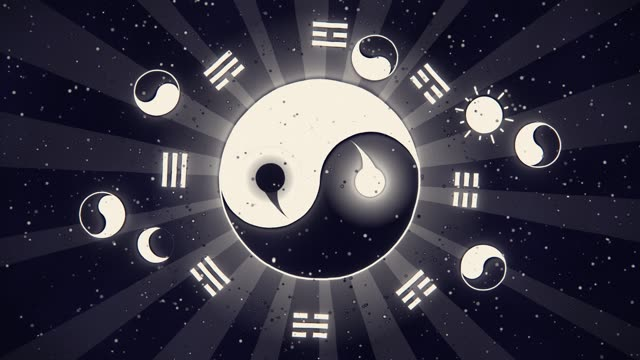
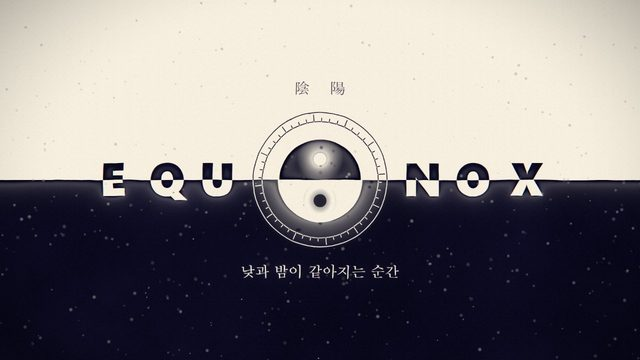
이쿼녹스: 회전 1.5배 + 종막 리워크
- 회전 속도 배율 SPIN=1.5, 마지막 마디(17.02~19.02)는 수렴하며 추가 가속·확대
- 해와 달이 나선으로 빨려들어 태극의 두 눈이 됨
- 19.02: 태극이 수평으로 멈추고 S곡선이 수평선으로 펴짐 (위 낮 / 아래 밤)
- EQU ◐ NOX 타이틀이 수평선에 걸쳐 반반으로 찍힘, 천문 눈금 고리, 부제
- 숨겨진 0x0 창에서 NaN 그라디언트 오류 방지 (W/H 기본값)

diff --git a/public/equinox_preview.html b/public/equinox_preview.html
@@ -57,8 +57,9 @@ const eBack = (t) => { const c = 1.70158; return 1 + (c + 1) * Math.pow(t - 1, 3
 const pulse = (t, t0, rise, fall) => (t < t0 ? 0 : t < t0 + rise ? (t - t0) / rise : Math.max(0, 1 - (t - t0 - rise) / fall));
 function rng(seed) { return () => { seed |= 0; seed = seed + 0x6D2B79F5 | 0; let x = Math.imul(seed ^ seed >>> 15, 1 | seed); x = x + Math.imul(x ^ x >>> 7, 61 | x) ^ x; return ((x ^ x >>> 14) >>> 0) / 4294967296; }; }
 
+const SPIN = 1.5;                                    // 회전 속도 배율
 const VOLUME = .7;                                   // 음악 음량 (0~1)
-const BEAT = 2 / 3, T0 = 1.02, BUILD = 9.02, DROP = 11.02, SAT = 15.02, TITLE = 19.02, FADE = 20.0, END = 21.0;
+const BEAT = 2 / 3, T0 = 1.02, BUILD = 9.02, DROP = 11.02, SAT = 15.02, CONV = 17.02, TITLE = 19.02, FADE = 20.5, END = 21.2;
 const D = window.EQ_DATA || { fps: 30, low: [], high: [], onsets: [] };
 const CAPS = [
   { a: 1.5, b: 4.7, s: "陰 — 어둠은 빛을 품고" },
@@ -71,18 +72,19 @@ const $ = (id) => document.getElementById(id);
 const cv = $("cv"), g = cv.getContext("2d"), bgm = $("bgm");
 let W = 0, H = 0, U = 0, DPR = 1, stars = [], parts = [], events = [], rotTab = null, time = 0, running = false, raf = 0, anchor = 0, useAudio = false, opts = {};
 
-function resize() { DPR = Math.min(2, window.devicePixelRatio || 1); W = cv.clientWidth; H = cv.clientHeight; U = Math.min(W, H) / 10; cv.width = W * DPR; cv.height = H * DPR; }
+function resize() { DPR = Math.min(2, window.devicePixelRatio || 1); W = cv.clientWidth || 1280; H = cv.clientHeight || 720;   // 창이 숨겨져 크기가 0이어도 NaN 이 나지 않게 U = Math.min(W, H) / 10; cv.width = W * DPR; cv.height = H * DPR; }
 function band(arr, t) { const i = t * D.fps, i0 = Math.floor(i); if (i0 < 0 || !arr.length) return .5; const a = arr[Math.min(arr.length - 1, i0)], b = arr[Math.min(arr.length - 1, i0 + 1)]; return a + (b - a) * (i - i0); }
 const lowN = (t) => clamp((band(D.low, t) - .35) / .45), highN = (t) => clamp((band(D.high, t) - .25) / .45);
 
 /* 회전: 각속도를 적분해 표로 (1막 느리게 → 빌드에서 소용돌이 → 2막은 박마다 툭툭 밀림) */
-function omega(t) {
+function omega0(t) {
   if (t < T0) return 0;
   if (t < BUILD) { const ph = ((t - T0) / BEAT) % 1, grow = seg(t, T0, BUILD); return .55 + .5 * grow + (1.6 + 1.3 * grow) * Math.exp(-ph * 5); }
   if (t < DROP) return lerp(2.0, 12, eIn(seg(t, BUILD, DROP)));
   if (t < TITLE) { const ph = ((t - DROP) / BEAT) % 1; return 1.0 + 6 * Math.exp(-ph * 6); }
   return .45;
 }
+function omega(t) { return omega0(t) * SPIN * (t >= CONV && t < TITLE ? 1 + 2.5 * eIn(seg(t, CONV, TITLE)) : 1); }
 function buildRot() { const n = Math.ceil(END * 240) + 2; rotTab = new Float32Array(n); let a = PI / 2; for (let i = 0; i < n; i++) { rotTab[i] = a; a += omega(i / 240) / 240; } }
 function rotAt(t) { const i = clamp(t, 0, END) * 240, i0 = Math.floor(i); return lerp(rotTab[i0], rotTab[Math.min(rotTab.length - 1, i0 + 1)], i - i0); }
 function beatPulse(t) { if (t < DROP || t >= TITLE) return 0; return Math.exp(-(((t - DROP) / BEAT) % 1) * 5); }
@@ -91,11 +93,16 @@ function radiusAt(t) {
   if (t < BUILD) return Math.exp(lerp(Math.log(45 * U), Math.log(10 * U), eOut(seg(t, T0, BUILD))));
   if (t < DROP) return Math.exp(lerp(Math.log(10 * U), Math.log(2.7 * U), eIn(seg(t, BUILD, DROP))));
   const toTitle = eInOut(seg(t, TITLE, TITLE + .55));
-  return lerp(2.7 * U * (1 + .1 * beatPulse(t) + .05 * lowN(t)) * (1 + .3 * pulse(t, DROP, .01, .45)), 1.3 * U, toTitle);
+  return lerp(2.7 * U * (1 + .1 * beatPulse(t) + .05 * lowN(t)) * (1 + .3 * pulse(t, DROP, .01, .45)), 1.15 * U, toTitle);
 }
-function centerY(t) { return lerp(0, -1.95 * U, eInOut(seg(t, TITLE, TITLE + .55))); }
+function centerY(t) { return 0; }
+/* 종막: 도는 태극이 수평으로 멈추고(phi → 2π 배수), S자 경계가 곧은 수평선으로 펴진다(amp 1 → 0) */
+function finale(t) { const r0 = rotAt(TITLE) - PI / 2, target = Math.ceil((r0 + 1.2) / TAU) * TAU;
+  return { phi: lerp(r0, target, eOut(seg(t, TITLE, TITLE + .5))), amp: 1 - eInOut(seg(t, TITLE + .1, TITLE + .6)) }; }
 function orbR(t) { return Math.min(lerp(3.3 * U, 2.3 * U, seg(t, 3, BUILD)), radiusAt(t) / 2); }
-function orbPos(t, yang) { const a = rotAt(t), r = orbR(t) * (yang ? 1 : -1); return [Math.sin(a) * r, -Math.cos(a) * r + centerY(t)]; }
+function orbPos(t, yang) {
+  if (t >= TITLE) { const f = finale(t), th = (1 - f.amp) * PI / 2, R = radiusAt(t) / 2, lx = (yang ? 1 : -1) * R * Math.cos(th), ly = (yang ? -1 : 1) * R * Math.sin(th), c = Math.cos(f.phi), sn = Math.sin(f.phi); return [lx * c - ly * sn, lx * sn + ly * c]; }
+  const a = rotAt(t), r = orbR(t) * (yang ? 1 : -1); return [Math.sin(a) * r, -Math.cos(a) * r + centerY(t)]; }
 
 function init() {
   buildRot();
@@ -136,6 +143,13 @@ function taiji(cx, cy, R, rot, whiteAlpha, outline) {
   if (outline) { g.strokeStyle = "#fff"; g.lineWidth = outline; g.beginPath(); g.arc(0, 0, R, 0, TAU); g.stroke(); }
   g.restore();
 }
+function taijiMorph(R, phi, amp, outline) {       // amp=1: 보통 태극(흰 머리 왼쪽·검은 머리 오른쪽), amp=0: 위는 검고 아래는 흰 반원
+  const k = R * 2 / 3 * amp;
+  g.save(); g.rotate(phi); g.fillStyle = "#fff"; g.beginPath(); g.arc(0, 0, R, 0, TAU); g.fill();
+  g.fillStyle = "#000"; g.beginPath(); g.moveTo(-R, 0); g.arc(0, 0, R, PI, 0, false); g.bezierCurveTo(R, k, 0, k, 0, 0); g.bezierCurveTo(0, -k, -R, -k, -R, 0); g.closePath(); g.fill();
+  if (outline) { g.strokeStyle = "#fff"; g.lineWidth = outline; g.beginPath(); g.arc(0, 0, R, 0, TAU); g.stroke(); }
+  g.restore();
+}
 function orb(x, y, r, yang, glow) {
   if (yang) { const gr = g.createRadialGradient(x, y, r * .6, x, y, r * (2.6 + glow * 2)); gr.addColorStop(0, `rgba(255,255,255,${.5 + .4 * glow})`); gr.addColorStop(1, "rgba(255,255,255,0)"); g.globalCompositeOperation = "lighter"; g.fillStyle = gr; g.beginPath(); g.arc(x, y, r * (2.6 + glow * 2), 0, TAU); g.fill(); g.globalCompositeOperation = "source-over"; }
   else { const gr = g.createRadialGradient(x, y, r * .6, x, y, r * (2.4 + glow * 1.6)); gr.addColorStop(0, `rgba(0,0,0,${.45 + .35 * glow})`); gr.addColorStop(1, "rgba(0,0,0,0)"); g.fillStyle = gr; g.beginPath(); g.arc(x, y, r * (2.4 + glow * 1.6), 0, TAU); g.fill(); }
@@ -161,6 +175,7 @@ function draw(t) {
   const shake = U * (.35 * pulse(t, DROP, .02, .6) + .05 * bp + .2 * pulse(t, TITLE, .02, .4) + .06 * seg(t, BUILD + 1, DROP));
   const r0 = rng(Math.floor(t * 60));
   g.translate(W / 2 + (r0() - .5) * shake, H / 2 + (r0() - .5) * shake); g.scale(zoom, zoom);
+  { const cz = 1 + (t < TITLE ? .24 * eIn(seg(t, CONV, TITLE)) : 0); g.scale(cz, cz); }        // 마지막 마디: 빨려 들어가듯
   const R = radiusAt(t), rot = rotAt(t), cy = centerY(t), titleK = eInOut(seg(t, TITLE, TITLE + .55));
 
   /* 배경: 2막 = 밤하늘 + 역회전 빛살, 종막 = 정확히 반반(왼쪽 밤 / 오른쪽 낮) */
@@ -174,7 +189,7 @@ function draw(t) {
         for (let i = 0; i < 18; i++) { const a = a0 + i / 18 * TAU, w = .07 + .03 * Math.sin(i * 1.7); g.moveTo(0, cy); g.lineTo(Math.cos(a - w) * Rr, cy + Math.sin(a - w) * Rr); g.lineTo(Math.cos(a + w) * Rr, cy + Math.sin(a + w) * Rr); g.closePath(); } g.fill(); }
     }
   }
-  if (titleK > 0) { const wipe = eOut(seg(t, TITLE, TITLE + .4)); g.fillStyle = "#fff"; g.fillRect(0, -H, W * wipe, H * 2); }   // 오른쪽 절반 = 낮
+  if (t >= TITLE) { const k = eOut(seg(t, TITLE + .1, TITLE + .65)); g.fillStyle = "#fff"; g.fillRect(-W, -H * k, 2 * W, H * k); }   // 수평선 위 = 낮, 아래 = 밤
 
   /* 서막 0~1.02: 어둠 속 한 점, 위아래로 자라는 빛의 금 */
   if (t < T0 + .3) {
@@ -186,7 +201,8 @@ function draw(t) {
   /* 태극 본체 — 1막에서는 화면보다 훨씬 커서 '경계선'만 보인다 */
   if (t >= T0) {
     if (t >= DROP) { const gl = g.createRadialGradient(0, cy, R * .9, 0, cy, R * (1.7 + bp * .5)); gl.addColorStop(0, `rgba(255,255,255,${.3 + .35 * bp})`); gl.addColorStop(1, "rgba(255,255,255,0)"); g.globalCompositeOperation = "lighter"; g.fillStyle = gl; g.beginPath(); g.arc(0, cy, R * 2.3, 0, TAU); g.fill(); g.globalCompositeOperation = "source-over"; }
-    taiji(0, cy, R, rot, eOut(seg(t, T0, T0 + .22)), R < 20 * U ? Math.max(1.5, U * .045) : 0);
+    if (t >= TITLE) { const f = finale(t); taijiMorph(R, f.phi, f.amp, Math.max(1.5, U * .045)); }
+    else taiji(0, cy, R, rot, eOut(seg(t, T0, T0 + .22)), R < 20 * U ? Math.max(1.5, U * .045) : 0);
   }
 
   /* 팔괘 — 박마다 하나씩 차례로 번쩍 */
@@ -194,7 +210,7 @@ function draw(t) {
     g.fillStyle = "#fff";
     const appear = eBack(seg(t, DROP, DROP + .5)) * (1 - titleK), beatN = Math.floor((t - DROP) / BEAT);
     if (appear > .01) for (let i = 0; i < 8; i++) {
-      const a = i / 8 * TAU - rot * .35, hot = beatN % 8 === i ? bp : 0, rr = 4.05 * U * appear * (1 + .04 * bar);
+      const a = i / 8 * TAU - rot * .35, hot = beatN % 8 === i ? bp : 0, rr = 4.05 * U * appear * (1 + .04 * bar) * (1 - .3 * eIn(seg(t, CONV, TITLE)));
       g.save(); g.translate(Math.cos(a) * rr, Math.sin(a) * rr + cy); g.rotate(a + PI / 2); g.scale(1 + hot * .35, 1 + hot * .35);
       for (let b = 0; b < 3; b++) { const y = (b - 1) * .26 * U, w = .95 * U, h = .13 * U; if (TRIGRAMS[i] >> b & 1) g.fillRect(-w / 2, y - h / 2, w, h); else { g.fillRect(-w / 2, y - h / 2, w * .4, h); g.fillRect(w * .1, y - h / 2, w * .4, h); } }
       g.restore();
@@ -215,9 +231,10 @@ function draw(t) {
   g.globalCompositeOperation = "difference"; g.fillStyle = "#fff"; g.strokeStyle = "#fff";
   if (t >= T0 + .2 && t < TITLE) { const ow = lerp(.4 * U, R * .14, seg(t, BUILD, DROP)) * 1.7; trail(t, true, ow); trail(t, false, ow); }
   // 해와 달 — 서로 반대편에서 돌다가 종막에 수평으로 정렬(춘분)
-  if (t >= DROP + .3) {
-    const k = eOut(seg(t, DROP + .3, DROP + 1.2)), th = lerp(-(t - DROP) * .55 + PI, PI, titleK), ex = lerp(6.6, 4.4, titleK) * U, ey = lerp(2.5, 0, titleK) * U, sr = .5 * U * k;
-    const sx = Math.cos(th) * ex, sy = Math.sin(th) * ey + cy, mx = -Math.cos(th) * ex, my = -Math.sin(th) * ey + cy;
+  if (t >= DROP + .3 && t < TITLE) {
+    const k = eOut(seg(t, DROP + .3, DROP + 1.2)), cvg = eInOut(seg(t, CONV + .3, TITLE - .05)), th = -(t - DROP) * .55 * (1 + 2 * cvg) + PI, ex = 6.6 * U * (1 - cvg * .55), ey = 2.5 * U * (1 - cvg * .2), sr = .5 * U * k * (1 - .45 * cvg);
+    const [ox1, oy1] = orbPos(t, true), [ox2, oy2] = orbPos(t, false), pull = eIn(cvg);
+    const sx = lerp(Math.cos(th) * ex, ox1, pull), sy = lerp(Math.sin(th) * ey + cy, oy1, pull), mx = lerp(-Math.cos(th) * ex, ox2, pull), my = lerp(-Math.sin(th) * ey + cy, oy2, pull);
     g.beginPath(); g.arc(sx, sy, sr, 0, TAU); g.fill();
     g.lineWidth = Math.max(1, U * .05); g.lineCap = "round";
     for (let i = 0; i < 12; i++) { const a = i / 12 * TAU + t * .5, l = sr * (1.35 + .25 * (i % 2) + .3 * bp); g.beginPath(); g.moveTo(sx + Math.cos(a) * sr * 1.2, sy + Math.sin(a) * sr * 1.2); g.lineTo(sx + Math.cos(a) * l, sy + Math.sin(a) * l); g.stroke(); }
@@ -234,12 +251,18 @@ function draw(t) {
   g.globalAlpha = 1;
   // 자막
   for (const c of CAPS) { const a = Math.min(seg(t, c.a, c.a + .6), 1 - seg(t, c.b - .6, c.b)); if (a > 0) text(c.s, 0, 3.35 * U, .44 * U, "", a); }
-  // 타이틀 — 가운데 글자 I 가 낮밤 경계에 걸려 반반으로 뒤집힌다
-  if (t >= TITLE + .15) {
-    const L = "EQUINOX"; g.textBaseline = "middle"; g.textAlign = "center";
-    for (let i = 0; i < L.length; i++) { const k = eOut(seg(t, TITLE + .15 + i * .05, TITLE + .6 + i * .05)); g.globalAlpha = k; g.font = `800 ${1.35 * U}px "Pretendard","Segoe UI","Malgun Gothic",sans-serif`; g.fillText(L[i], (i - 3) * 1.32 * U, .55 * U + (1 - k) * .5 * U); }
-    text("낮과 밤이 같아지는 순간", 0, 1.95 * U, .4 * U, "", eOut(seg(t, TITLE + .55, TITLE + 1)));
-    g.globalAlpha = eOut(seg(t, TITLE + .4, TITLE + .9)); g.fillRect(-3.2 * U, 1.32 * U, 6.4 * U, Math.max(1, U * .02)); g.globalAlpha = 1;
+  // 종막 — 수평선에 걸친 글자는 위는 검게(낮 위), 아래는 희게(밤 위) 찍힌다. 가운데 I 자리는 펴진 태극이 대신한다
+  if (t >= TITLE + .25) {
+    const k2 = eOut(seg(t, TITLE + .28, TITLE + .8)), Rr = radiusAt(t), sc = Math.min(1, W / (13.2 * U));
+    g.globalAlpha = k2; g.lineWidth = Math.max(1, U * .022);
+    for (const m of [1.4, 1.62]) { g.beginPath(); g.arc(0, 0, Rr * m * (1.6 - .6 * k2), 0, TAU); g.stroke(); }          // 천문 눈금 고리
+    for (let i = 0; i < 48; i++) { const a = i / 48 * TAU + t * .15, l = i % 4 ? .08 : .17; g.beginPath(); g.moveTo(Math.cos(a) * Rr * 1.4, Math.sin(a) * Rr * 1.4); g.lineTo(Math.cos(a) * Rr * (1.4 + l), Math.sin(a) * Rr * (1.4 + l)); g.stroke(); }
+    const L = "EQU NOX", xs = [-5.75, -4.25, -2.85, 0, 2.85, 4.25, 5.75];
+    g.textBaseline = "middle"; g.textAlign = "center"; g.font = `800 ${1.3 * U * sc}px "Pretendard","Segoe UI","Malgun Gothic",sans-serif`;
+    for (let i = 0; i < 7; i++) { if (i === 3) continue; const d = Math.abs(i - 3), k = eOut(seg(t, TITLE + .33 + d * .07, TITLE + .7 + d * .07)); g.globalAlpha = k; g.fillText(L[i], xs[i] * U * sc * lerp(.5, 1, k), .09 * U * sc); }
+    text("낮과 밤이 같아지는 순간", 0, 2.55 * U, .4 * U, "", eOut(seg(t, TITLE + .75, TITLE + 1.15)));
+    text("陰    陽", 0, -2.55 * U, .42 * U, "", eOut(seg(t, TITLE + .75, TITLE + 1.15)) * .85);
+    g.globalAlpha = 1;
   }
   g.globalCompositeOperation = "source-over";
 
